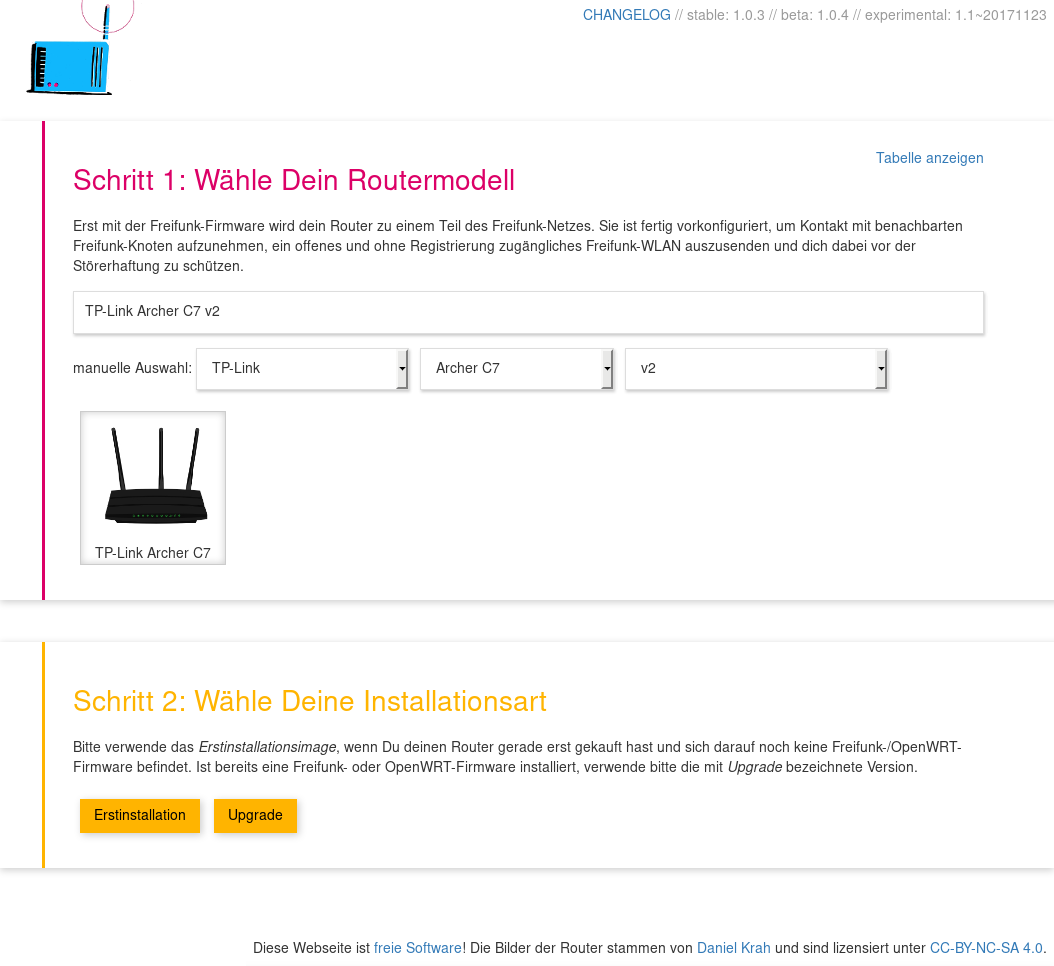
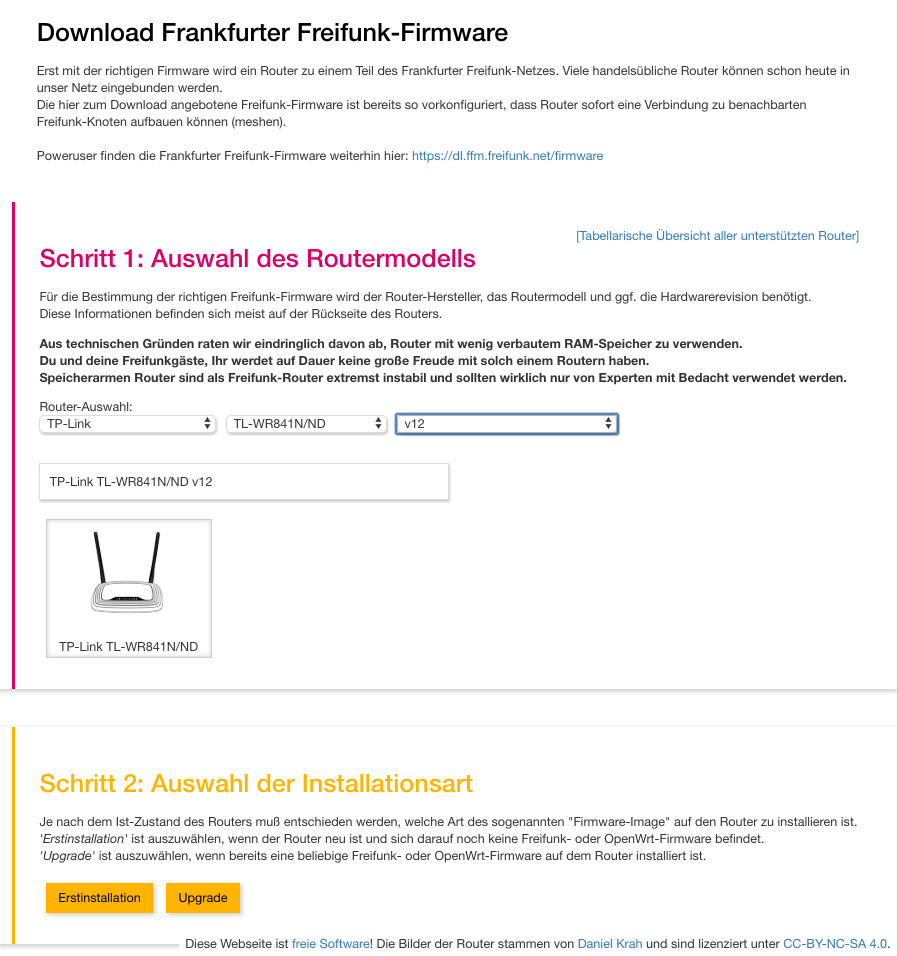
Kleine Anpassungen

Changed region(s): [[0.0, 0.0, 1.0, 1.0], [0.5612, 0.0, 0.9042, 0.0303], [0.8419, 0.1517, 0.9354, 0.182]]

diff --git a/index.html b/index.html
@@ -21,9 +21,9 @@
     </p>
       <div class="pane-wrapper">
         <div id="head-pane" class="pane" style="display: block;">
-            <h1>Download Frankfurter Freifunk-Firmware</h1>
+            <h1>Download der Frankfurter Freifunk-Firmware</h1>
             <p>Erst mit der richtigen Firmware wird ein Router zu einem Teil des
-              Frankfurter Freifunk-Netzes. Viele handelsübliche Router können schon heute in das Netz eingebunden werden.<br>
+              Frankfurter Freifunk-Netzes. Viele handelsübliche Router können schon heute in unser Netz eingebunden werden.<br>
               Die hier zum Download angebotene Freifunk-Firmware ist bereits so vorkonfiguriert, dass Router sofort eine Verbindung zu benachbarten Freifunk-Knoten aufbauen (meshen).<br><br>
               Poweruser finden die Frankfurter Freifunk-Firmware weiterhin hier: <a href="https://dl.ffm.freifunk.net/firmware/" https://dl.ffm.freifunk.net/firmware/" target="_blank">https://dl.ffm.freifunk.net/firmware</a>
             </p>
@@ -33,6 +33,11 @@
           <h1>Schritt 1: Auswahl des Routermodells</h1>
           <p>Für die Bestimmung der richtigen Freifunk-Firmware wird der Router-Hersteller, das Routermodell und ggf. die Hardwarerevision benötigt.<br>
              Diese Informationen befinden sich meist auf der Rückseite des Routers.</p>
+              <p><b>
+               Aus technischen Gründen raten wir eindringlich davon ab, Router mit wenig verbautem RAM-Speicher zu verwenden.<br>
+               Du und deine Freifunkgäste, Ihr werdet auf Dauer keine große Freude mit solch einem Routern haben.<br>
+               Speicherarmen Router sind als Freifunk-Router extremst instabil und sollten wirklich nur von Experten mit Bedacht verwendet werden.<br>
+              </b></p>             
           <div class="manualSelection initiallyhidden">
             <span>Router-Auswahl:</span><br>
             <select id="vendorselect"></select>
@@ -117,7 +122,7 @@
       </table>
     </div>
 
-    <p class="floatingBottomRight">Diese Webseite ist <a href="https://github.com/freifunk-darmstadt/gluon-firmware-wizard">freie Software</a>! Die Bilder der Router stammen von <a href="https://github.com/Moorviper/Freifunk-Router-Anleitungen">Daniel Krah</a> und sind lizenziert unter <a href="https://creativecommons.org/licenses/by-nc-sa/4.0/">CC-BY-NC-SA 4.0</a>.</p>
+    <p class="floatingBottomRight">Diese Webseite ist <a href="https://github.com/freifunk-ffm/gluon-firmware-wizard">freie Software</a>! Die Bilder der Router stammen von <a href="https://github.com/Moorviper/Freifunk-Router-Anleitungen">Daniel Krah</a> und sind lizenziert unter <a href="https://creativecommons.org/licenses/by-nc-sa/4.0/">CC-BY-NC-SA 4.0</a>.</p>
 
     <script src="devices.js"></script>
     <script src="config.js"></script>

diff --git a/README.md b/README.md
@@ -1,18 +1,17 @@
-OpenWrt/LEDE Firmware Wizard
----
+Gluon Firmware-Selector
 
-Dieses Projekt ist ein Fork vom [Darmstädter OpenWrt/LEDE Firmware Selector](https://github.com/freifunk-darmstadt/gluon-firmware-selector).
+Mit dem Firmware-Selector kann ein Routerbetreiber die richtige Freifunk-Firmware für seinen Freifunk-Router auswählen und zur Installation runterladen.
 
-Auf Grund unserer Lokalisierungen driftet das Projekt ganz leicht von dem Darmstädter Repo weg.
-
-Der Frankfurter Firmware Selector ist hier zu finden: https://ffm.freifunk.net/firmware
-
---- 
-
-This Firmware Wizard lets a user select the correct firmware for his device. Directory listings are used to parse the list of available images.
+Die Funktionsweise des Frankfurter Firmware-Selectors kann online hier eingesehen werden: https://ffm.freifunk.net/firmware
 
 ### Screenshot
 ![screenshot of the firmware wizard](screenshot.png)
+
+---
+
+Dieses Projekt ist ein lokalisierter Git-Fork vom [Darmstädter Firmware Selector](https://github.com/freifunk-darmstadt/gluon-firmware-selector).
+
+--- 
 
 
 ### License
